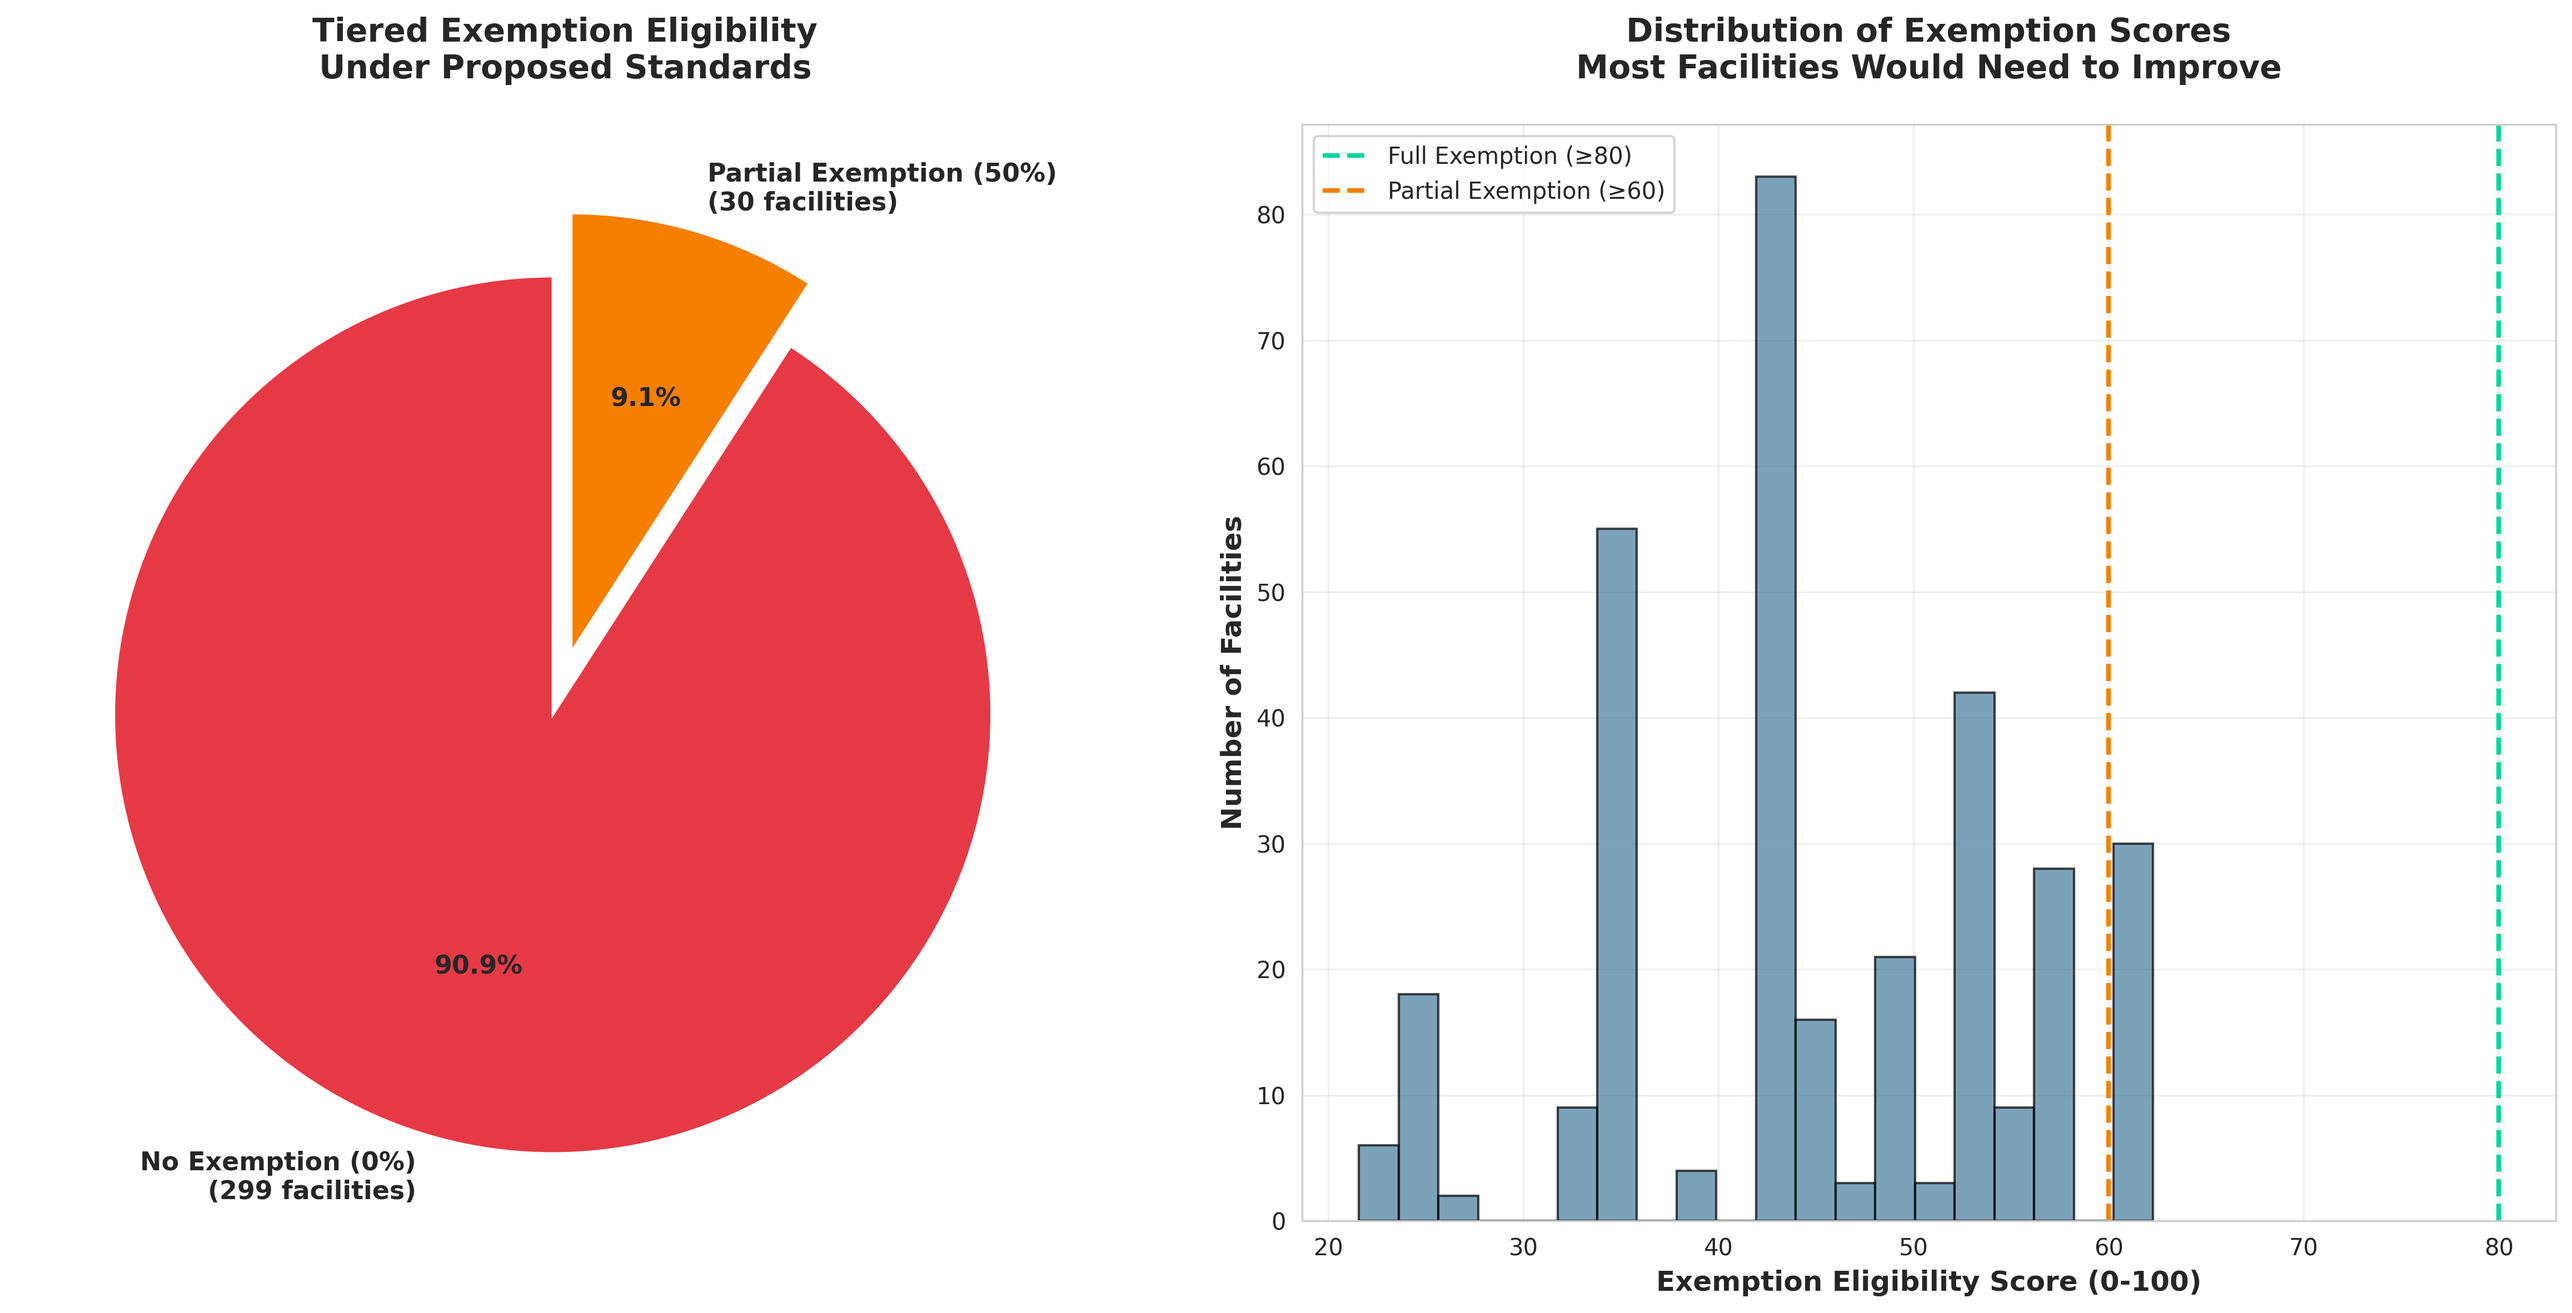
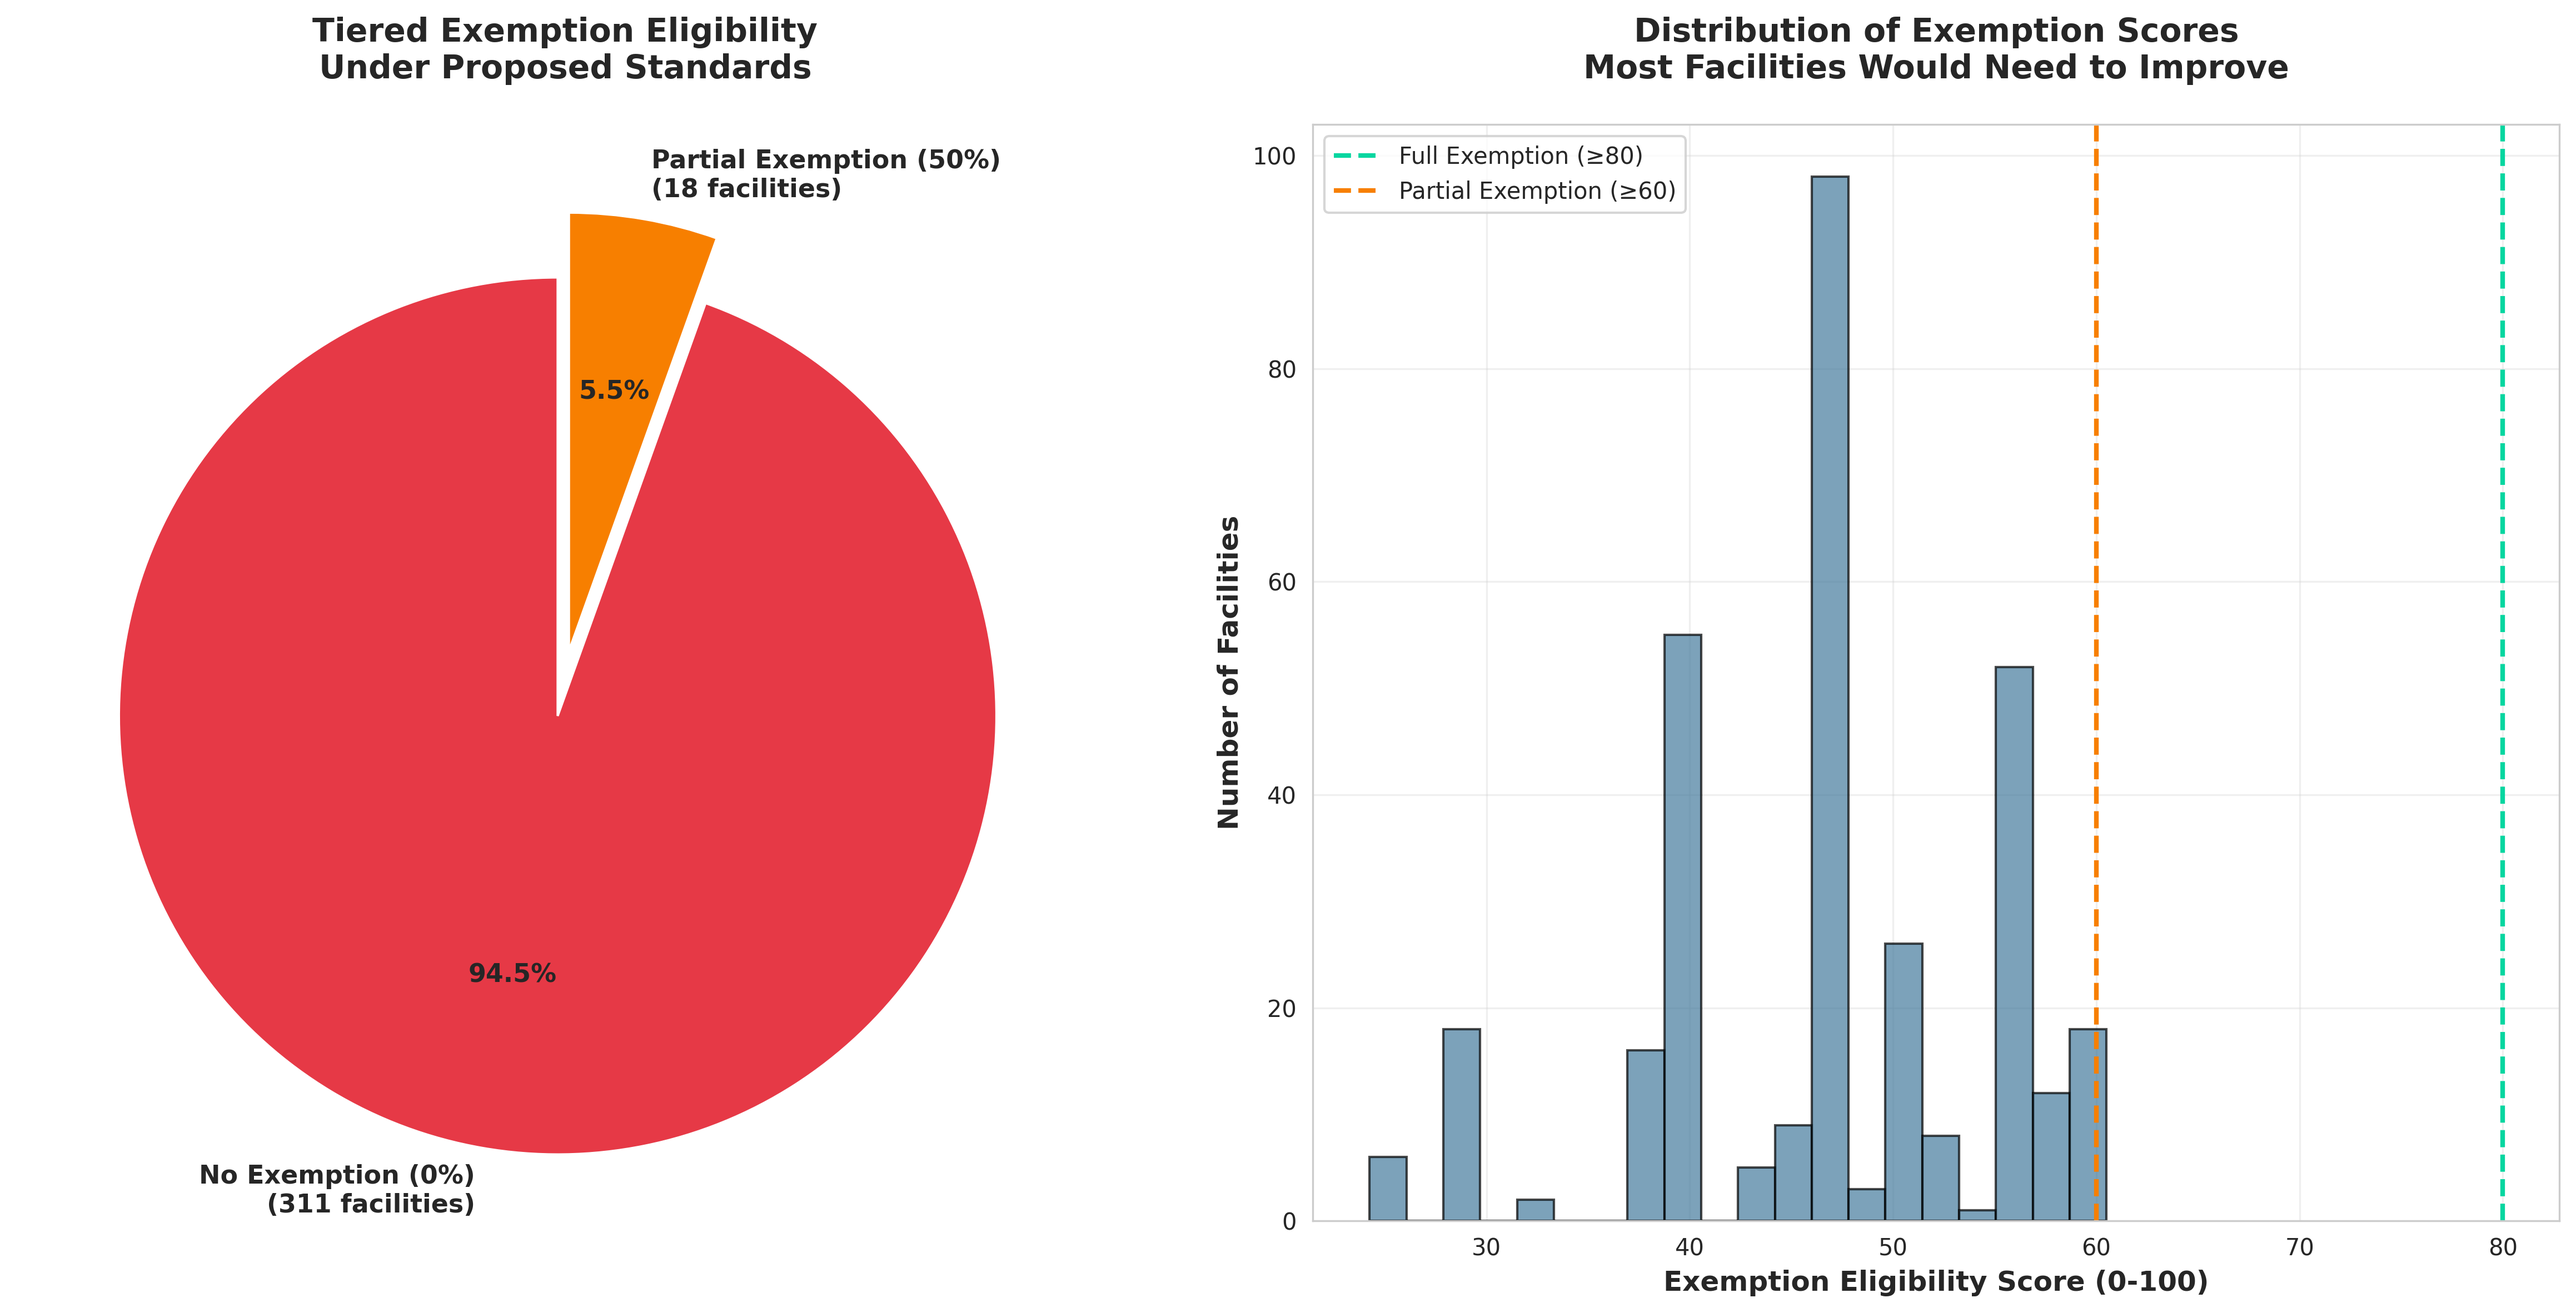
added new script for individual scores

diff --git a/Scripts/individual_scores.py b/Scripts/individual_scores.py
@@ -1,0 +1,323 @@
+#same setup as visualizations.py 
+
+import pandas as pd
+import matplotlib.pyplot as plt
+import seaborn as sns
+import json
+from pathlib import Path
+import numpy as np
+
+# Set style
+sns.set_style("whitegrid")
+plt.rcParams['figure.figsize'] = (12, 8)
+plt.rcParams['font.size'] = 10
+
+# Paths
+DATA_PATH = Path("../data/va_data_centers.json")
+OUTPUT_PATH = Path("../outputs/figures")
+OUTPUT_PATH.mkdir(parents=True, exist_ok=True)
+
+#print("Loading Virginia data centers...")
+with open(DATA_PATH, 'r') as f:
+    data = json.load(f)
+
+# Convert to DataFrame
+df = pd.DataFrame(data)
+
+# Create commonly used columns early
+df['power_numeric'] = pd.to_numeric(
+    df['estimate power consumption in kw/hr (calculated 50%)'].astype(str).str.replace(',', '').str.replace(' ', ''),
+    errors='coerce'
+)
+df['pop_numeric'] = pd.to_numeric(
+    df['total population within 1 mile of site'],
+    errors='coerce'
+)
+df['size_category'] = df['size category at 50% capacity'].fillna('Unknown')
+
+
+def calculate_disclosure_score(row):
+    score = 0
+    max_score = 4
+    
+    if row['annual water consumption (gallons)'] not in ['-', '', None]:
+        score += 1
+    if row['daily water consumption (gallons)'] not in ['-', '', None]:
+        score += 1
+    if row['estimate power consumption in kw/hr (calculated 50%)'] not in ['-', '', None]:
+        score += 1
+    if row['total population within 1 mile of site'] not in ['-', '', None]:
+        score += 1
+    
+    return (score / max_score) * 100
+
+df['disclosure_score'] = df.apply(calculate_disclosure_score, axis=1)
+
+def calculate_exemption_eligibility(row):
+    score = 0
+    max_score = 100
+    reasons = []
+    
+    renewable_pct = 0
+    score += (renewable_pct / 100) * 15
+    if renewable_pct < 40:
+        reasons.append(f"Low renewable energy ({renewable_pct}%)")
+    
+    water_stress = row['water stress']
+    water_data = row['annual water consumption (gallons)']
+    if water_stress in ['Low (<10%)', 'Low - Medium (10-20%)']:
+        score += 8
+    elif water_stress in ['Medium - High (20-40%)'] and water_data not in ['-', '', None]:
+        score += 5
+        reasons.append("Medium-high water stress with data")
+    elif water_stress in ['High (40-80%)', 'Extremely High (>80%)']:
+        score += 0
+        reasons.append(f"High water stress ({water_stress})")
+    else:
+        score += 3
+    
+    nox = row['nox tpy']
+    pm25 = row['pm2.5 tpy']
+    co2e = row['co2e tpy']
+    
+    emissions_disclosed = sum([
+        nox not in ['-', '', None],
+        pm25 not in ['-', '', None],
+        co2e not in ['-', '', None]
+    ])
+    score += (emissions_disclosed / 3) * 15
+    
+    if emissions_disclosed < 2:
+        reasons.append(f"Missing emissions data ({3-emissions_disclosed} fields)")
+    
+    pop = row['total population within 1 mile of site']
+    if pd.notna(pop) and pop != '-':
+        pop_num = float(pop) if isinstance(pop, (int, float)) else 0
+        if pop_num < 1000:
+            score += 10
+        elif pop_num < 5000:
+            score += 5
+            reasons.append(f"Population exposure: {pop_num:.0f} residents")
+        else:
+            score += 0
+            reasons.append(f"High population exposure: {pop_num:.0f} residents")
+    else:
+        score += 3
+    
+    ej_state = row['state environmental justice concern']
+    ej_us = row['us environmental justice concern']
+    if ej_state == 'no' and ej_us == 'no':
+        score += 10
+    else:
+        score += 0
+        reasons.append("Environmental justice concerns flagged")
+    
+    score += 5
+    
+    power = row['power_numeric']
+    if pd.notna(power):
+        if power < 50000:
+            score += 5
+        elif power < 100000:
+            score += 3
+        else:
+            score += 0
+            reasons.append(f"High power demand ({power/1000:.0f} MW)")
+    else:
+        score += 2
+    
+    disclosure = row['disclosure_score']
+    score += (disclosure / 100) * 25
+    
+    if disclosure < 50:
+        reasons.append(f"Low disclosure score ({disclosure:.0f}%)")
+    
+    if score >= 80:
+        tier = "Full Exemption (100%)"
+    elif score >= 60:
+        tier = "Partial Exemption (50%)"
+    else:
+        tier = "No Exemption (0%)"
+    
+    return score, tier, reasons
+
+
+def print_detailed_breakdown(row, idx):
+    """Print a detailed scoring breakdown for a single facility"""
+    
+    facility_name = row.get('name', 'Unknown Facility')
+    county = row.get('county', 'Unknown County')
+    
+    print(f"\n{'='*80}")
+    print(f"FACILITY #{idx}: {facility_name} - {county}")
+    print(f"{'='*80}")
+    
+    # Initialize score tracking
+    score_breakdown = {}
+    total = 0
+    
+    # 1. RENEWABLE ENERGY (15 pts)
+    renewable_pct = 0
+    renewable_score = (renewable_pct / 100) * 15
+    total += renewable_score
+    score_breakdown['Renewable Energy'] = (renewable_score, 15, f'{renewable_pct}% renewable commitment')
+    
+    # 2. WATER MANAGEMENT (8 pts)
+    water_stress = row['water stress']
+    water_data = row['annual water consumption (gallons)']
+    
+    if water_stress in ['Low (<10%)', 'Low - Medium (10-20%)']:
+        water_score = 8
+        water_detail = f'Low stress area: {water_stress}'
+    elif water_stress in ['Medium - High (20-40%)'] and water_data not in ['-', '', None]:
+        water_score = 5
+        water_detail = f'Med-high stress w/ disclosure: {water_stress}'
+    elif water_stress in ['High (40-80%)', 'Extremely High (>80%)']:
+        water_score = 0
+        water_detail = f'High/extreme stress: {water_stress}'
+    else:
+        water_score = 3
+        water_detail = 'Partial credit'
+    
+    total += water_score
+    score_breakdown['Water Management'] = (water_score, 8, water_detail)
+    
+    # 3. EMISSIONS DISCLOSURE (15 pts)
+    nox = row['nox tpy']
+    pm25 = row['pm2.5 tpy']
+    co2e = row['co2e tpy']
+    
+    emissions_disclosed = sum([
+        nox not in ['-', '', None],
+        pm25 not in ['-', '', None],
+        co2e not in ['-', '', None]
+    ])
+    emissions_score = (emissions_disclosed / 3) * 15
+    total += emissions_score
+    
+    disclosed = []
+    if nox not in ['-', '', None]: disclosed.append('NOx')
+    if pm25 not in ['-', '', None]: disclosed.append('PM2.5')
+    if co2e not in ['-', '', None]: disclosed.append('CO2e')
+    
+    emissions_detail = f'{emissions_disclosed}/3 disclosed: {", ".join(disclosed) if disclosed else "None"}'
+    score_breakdown['Emissions Disclosure'] = (emissions_score, 15, emissions_detail)
+    
+    # 4. POPULATION EXPOSURE (10 pts)
+    pop = row['total population within 1 mile of site']
+    if pd.notna(pop) and pop != '-':
+        pop_num = float(pop) if isinstance(pop, (int, float)) else 0
+        if pop_num < 1000:
+            pop_score = 10
+            pop_detail = f'{int(pop_num):,} residents (low density)'
+        elif pop_num < 5000:
+            pop_score = 5
+            pop_detail = f'{int(pop_num):,} residents (medium density)'
+        else:
+            pop_score = 0
+            pop_detail = f'{int(pop_num):,} residents (high density)'
+    else:
+        pop_score = 3
+        pop_detail = 'No data (partial credit)'
+    
+    total += pop_score
+    score_breakdown['Population Exposure'] = (pop_score, 10, pop_detail)
+    
+    # 5. ENVIRONMENTAL JUSTICE (10 pts)
+    ej_state = row['state environmental justice concern']
+    ej_us = row['us environmental justice concern']
+    
+    if ej_state == 'no' and ej_us == 'no':
+        ej_score = 10
+        ej_detail = 'No EJ concerns'
+    else:
+        ej_score = 0
+        concerns = []
+        if ej_state != 'no': concerns.append('State')
+        if ej_us != 'no': concerns.append('Federal')
+        ej_detail = f'EJ flags: {", ".join(concerns)}'
+    
+    total += ej_score
+    score_breakdown['Environmental Justice'] = (ej_score, 10, ej_detail)
+    
+    # 6. COMMUNITY ENGAGEMENT (5 pts)
+    total += 5
+    score_breakdown['Community Engagement'] = (5, 5, 'Default (stakeholder outreach)')
+    
+    # 7. POWER DEMAND (5 pts)
+    power = row['power_numeric']
+    if pd.notna(power):
+        if power < 50000:
+            power_score = 5
+            power_detail = f'{power/1000:.1f} MW (low)'
+        elif power < 100000:
+            power_score = 3
+            power_detail = f'{power/1000:.1f} MW (medium)'
+        else:
+            power_score = 0
+            power_detail = f'{power/1000:.1f} MW (high)'
+    else:
+        power_score = 2
+        power_detail = 'No data (partial credit)'
+    
+    total += power_score
+    score_breakdown['Power Demand'] = (power_score, 5, power_detail)
+    
+    # 8. DISCLOSURE QUALITY (25 pts)
+    disclosure = row['disclosure_score']
+    disclosure_score = (disclosure / 100) * 25
+    total += disclosure_score
+    score_breakdown['Transparency & Disclosure'] = (disclosure_score, 25, f'{disclosure:.0f}% fields complete')
+    
+    # Print breakdown
+    print(f"\nFINAL SCORE: {total:.1f}/100")
+    print(f"TIER: {row['exemption_tier']}\n")
+    
+    
+    # Environmental (38 pts)
+    env_total = sum(score_breakdown[k][0] for k in ['Renewable Energy', 'Water Management', 'Emissions Disclosure'])
+    print(f"\nENVIRONMENTAL IMPACT: {env_total:.1f}/38 pts")
+    for cat in ['Renewable Energy', 'Water Management', 'Emissions Disclosure']:
+        score, max_pts, detail = score_breakdown[cat]
+        print(f"  • {cat}: {score:.1f}/{max_pts} pts — {detail}")
+    
+    # Community (30 pts)
+    comm_total = sum(score_breakdown[k][0] for k in ['Population Exposure', 'Environmental Justice', 'Community Engagement', 'Power Demand'])
+    print(f"\nCOMMUNITY IMPACT: {comm_total:.1f}/30 pts")
+    for cat in ['Population Exposure', 'Environmental Justice', 'Community Engagement', 'Power Demand']:
+        score, max_pts, detail = score_breakdown[cat]
+        print(f"  • {cat}: {score:.1f}/{max_pts} pts — {detail}")
+    
+    # Transparency (25 pts)
+    trans_score, trans_max, trans_detail = score_breakdown['Transparency & Disclosure']
+    print(f"\nTRANSPARENCY: {trans_score:.1f}/{trans_max} pts")
+    print(f"  • Disclosure Quality: {trans_score:.1f}/{trans_max} pts — {trans_detail}")
+    
+    # Issues
+    if row['failing_criteria']:
+        print(f"\n KEY ISSUES:")
+        for issue in row['failing_criteria']:
+            print(f"  • {issue}")
+
+
+# Calculate SCORES
+results = df.apply(calculate_exemption_eligibility, axis=1)
+df['exemption_score'] = results.apply(lambda x: x[0])
+df['exemption_tier'] = results.apply(lambda x: x[1])
+df['failing_criteria'] = results.apply(lambda x: x[2])
+
+# Select 5 diverse examples - mix of high, medium, low scorers
+# Sort by score to pick from different ranges
+df_sorted = df.sort_values('exemption_score')
+
+sample_indices = [
+    0,  # Lowest scorer
+    len(df_sorted) // 4,  # Lower quartile
+    len(df_sorted) // 2,  # Median
+    3 * len(df_sorted) // 4,  # Upper quartile
+    len(df_sorted) - 1  # Highest scorer
+]
+
+for i, idx in enumerate(sample_indices, 1):
+    row = df_sorted.iloc[idx]
+    print_detailed_breakdown(row, i)

diff --git a/Scripts/visualizations.py b/Scripts/visualizations.py
@@ -287,21 +287,13 @@ plt.close()
 
 
 # PLOT 5: Tax Exemption Value vs. Disclosure Quality
-print("\nCreating Plot 5: Tax Exemption vs. Transparency...")
-
 def calculate_disclosure_score(row):
     score = 0
-    max_score = 7
+    max_score = 4
     
     if row['annual water consumption (gallons)'] not in ['-', '', None]:
         score += 1
     if row['daily water consumption (gallons)'] not in ['-', '', None]:
-        score += 1
-    if row['nox tpy'] not in ['-', '', None]:
-        score += 1
-    if row['pm2.5 tpy'] not in ['-', '', None]:
-        score += 1
-    if row['co2e tpy'] not in ['-', '', None]:
         score += 1
     if row['estimate power consumption in kw/hr (calculated 50%)'] not in ['-', '', None]:
         score += 1
